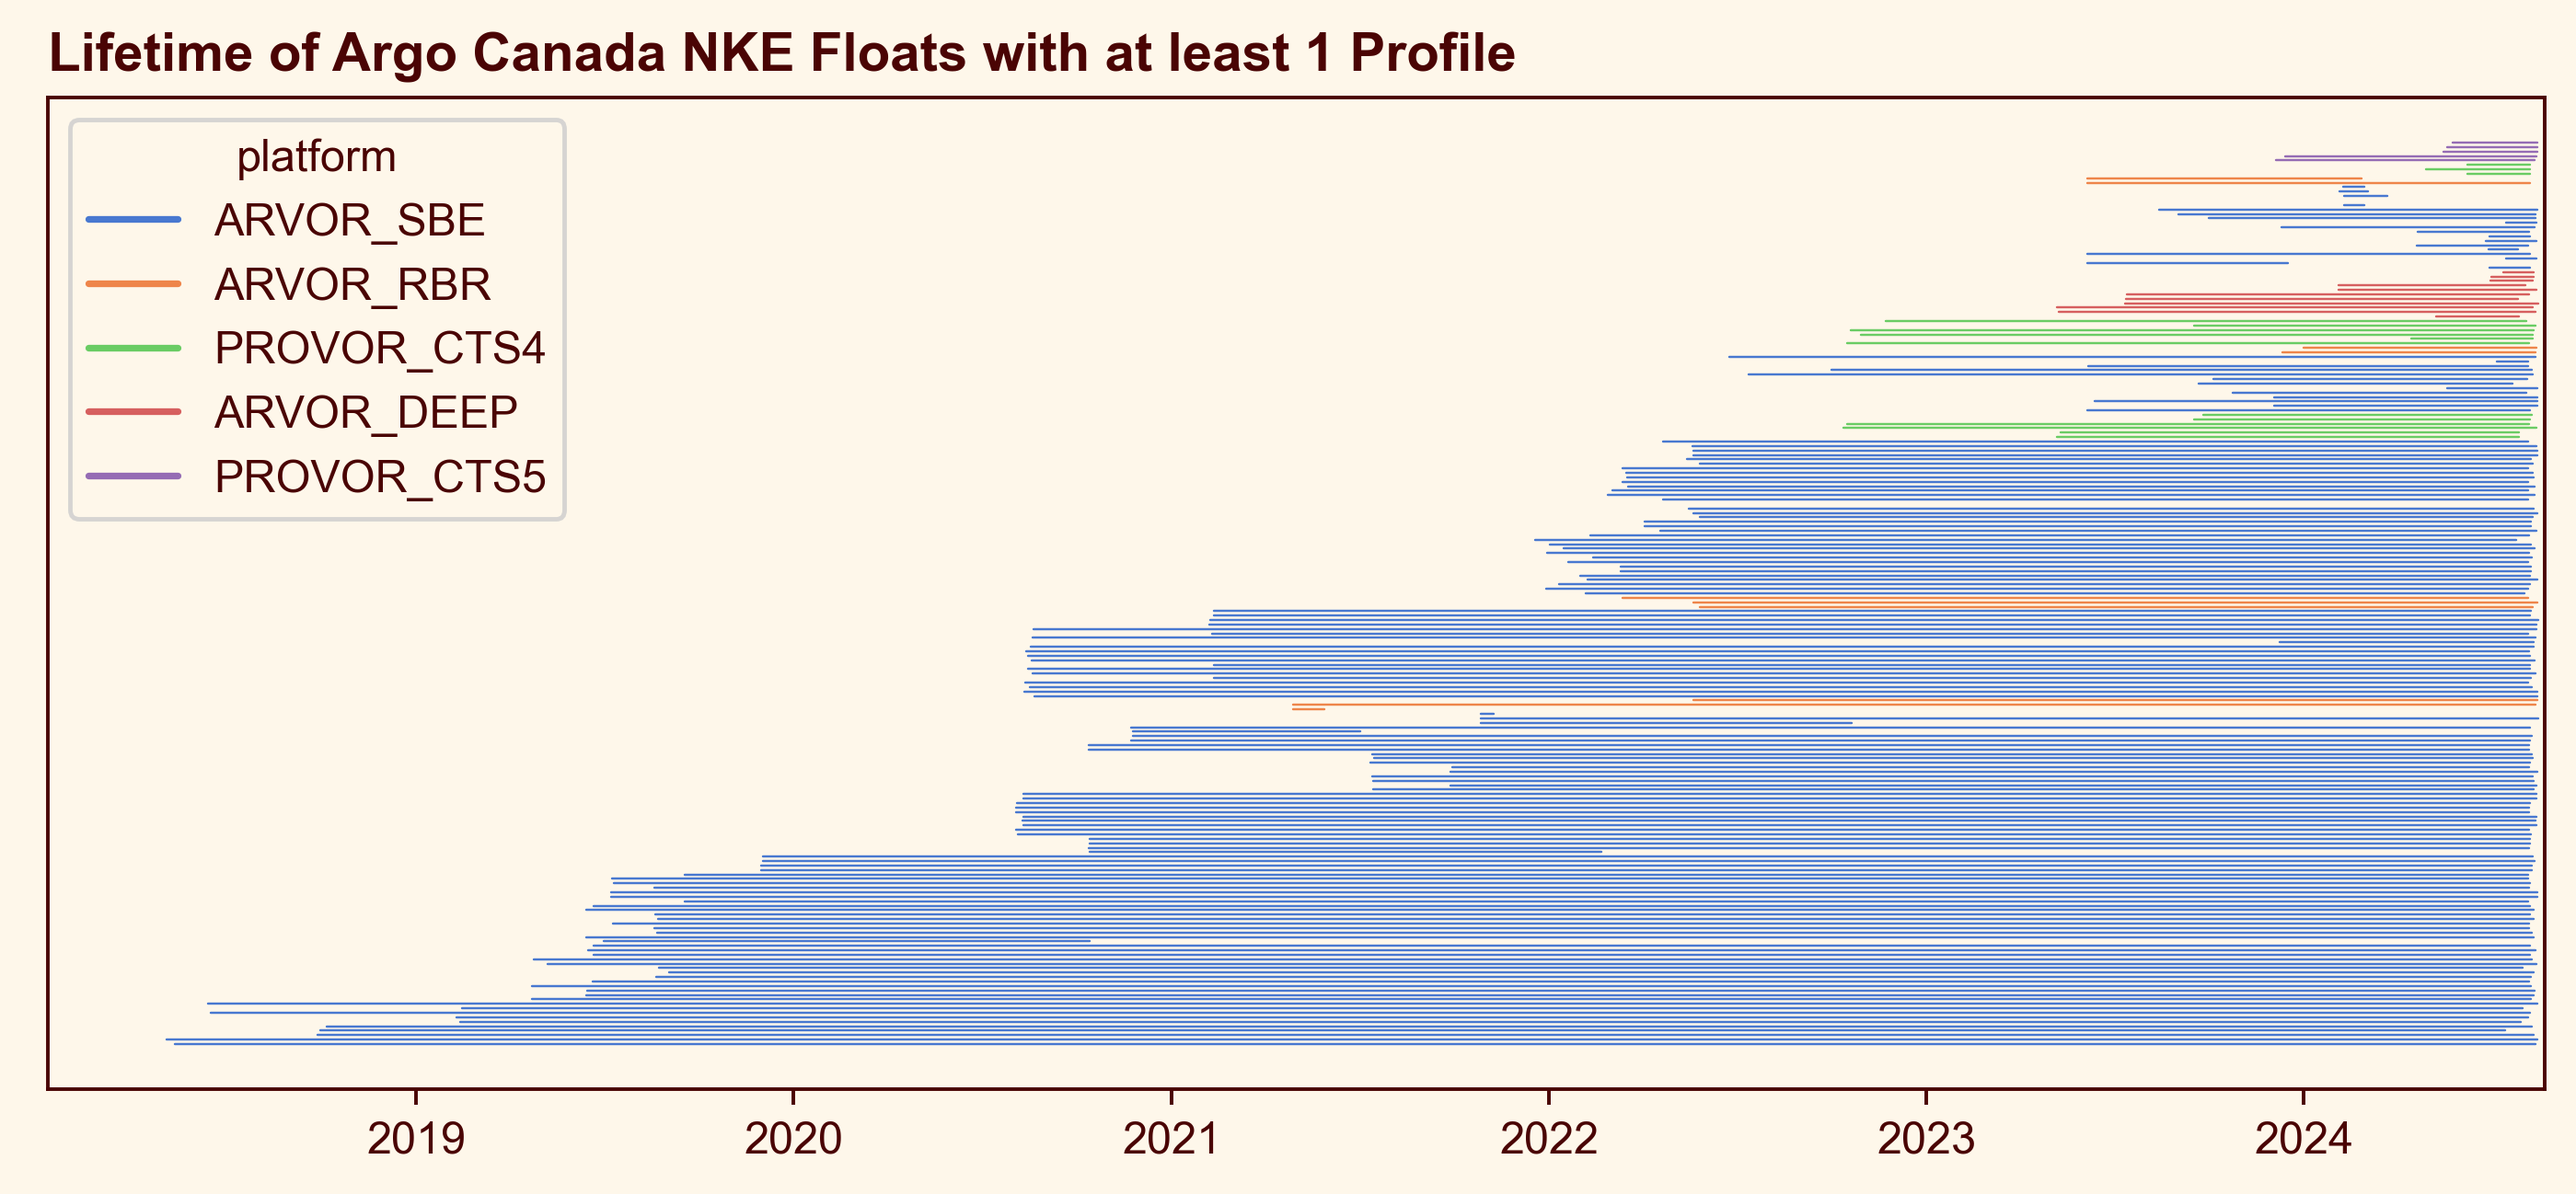
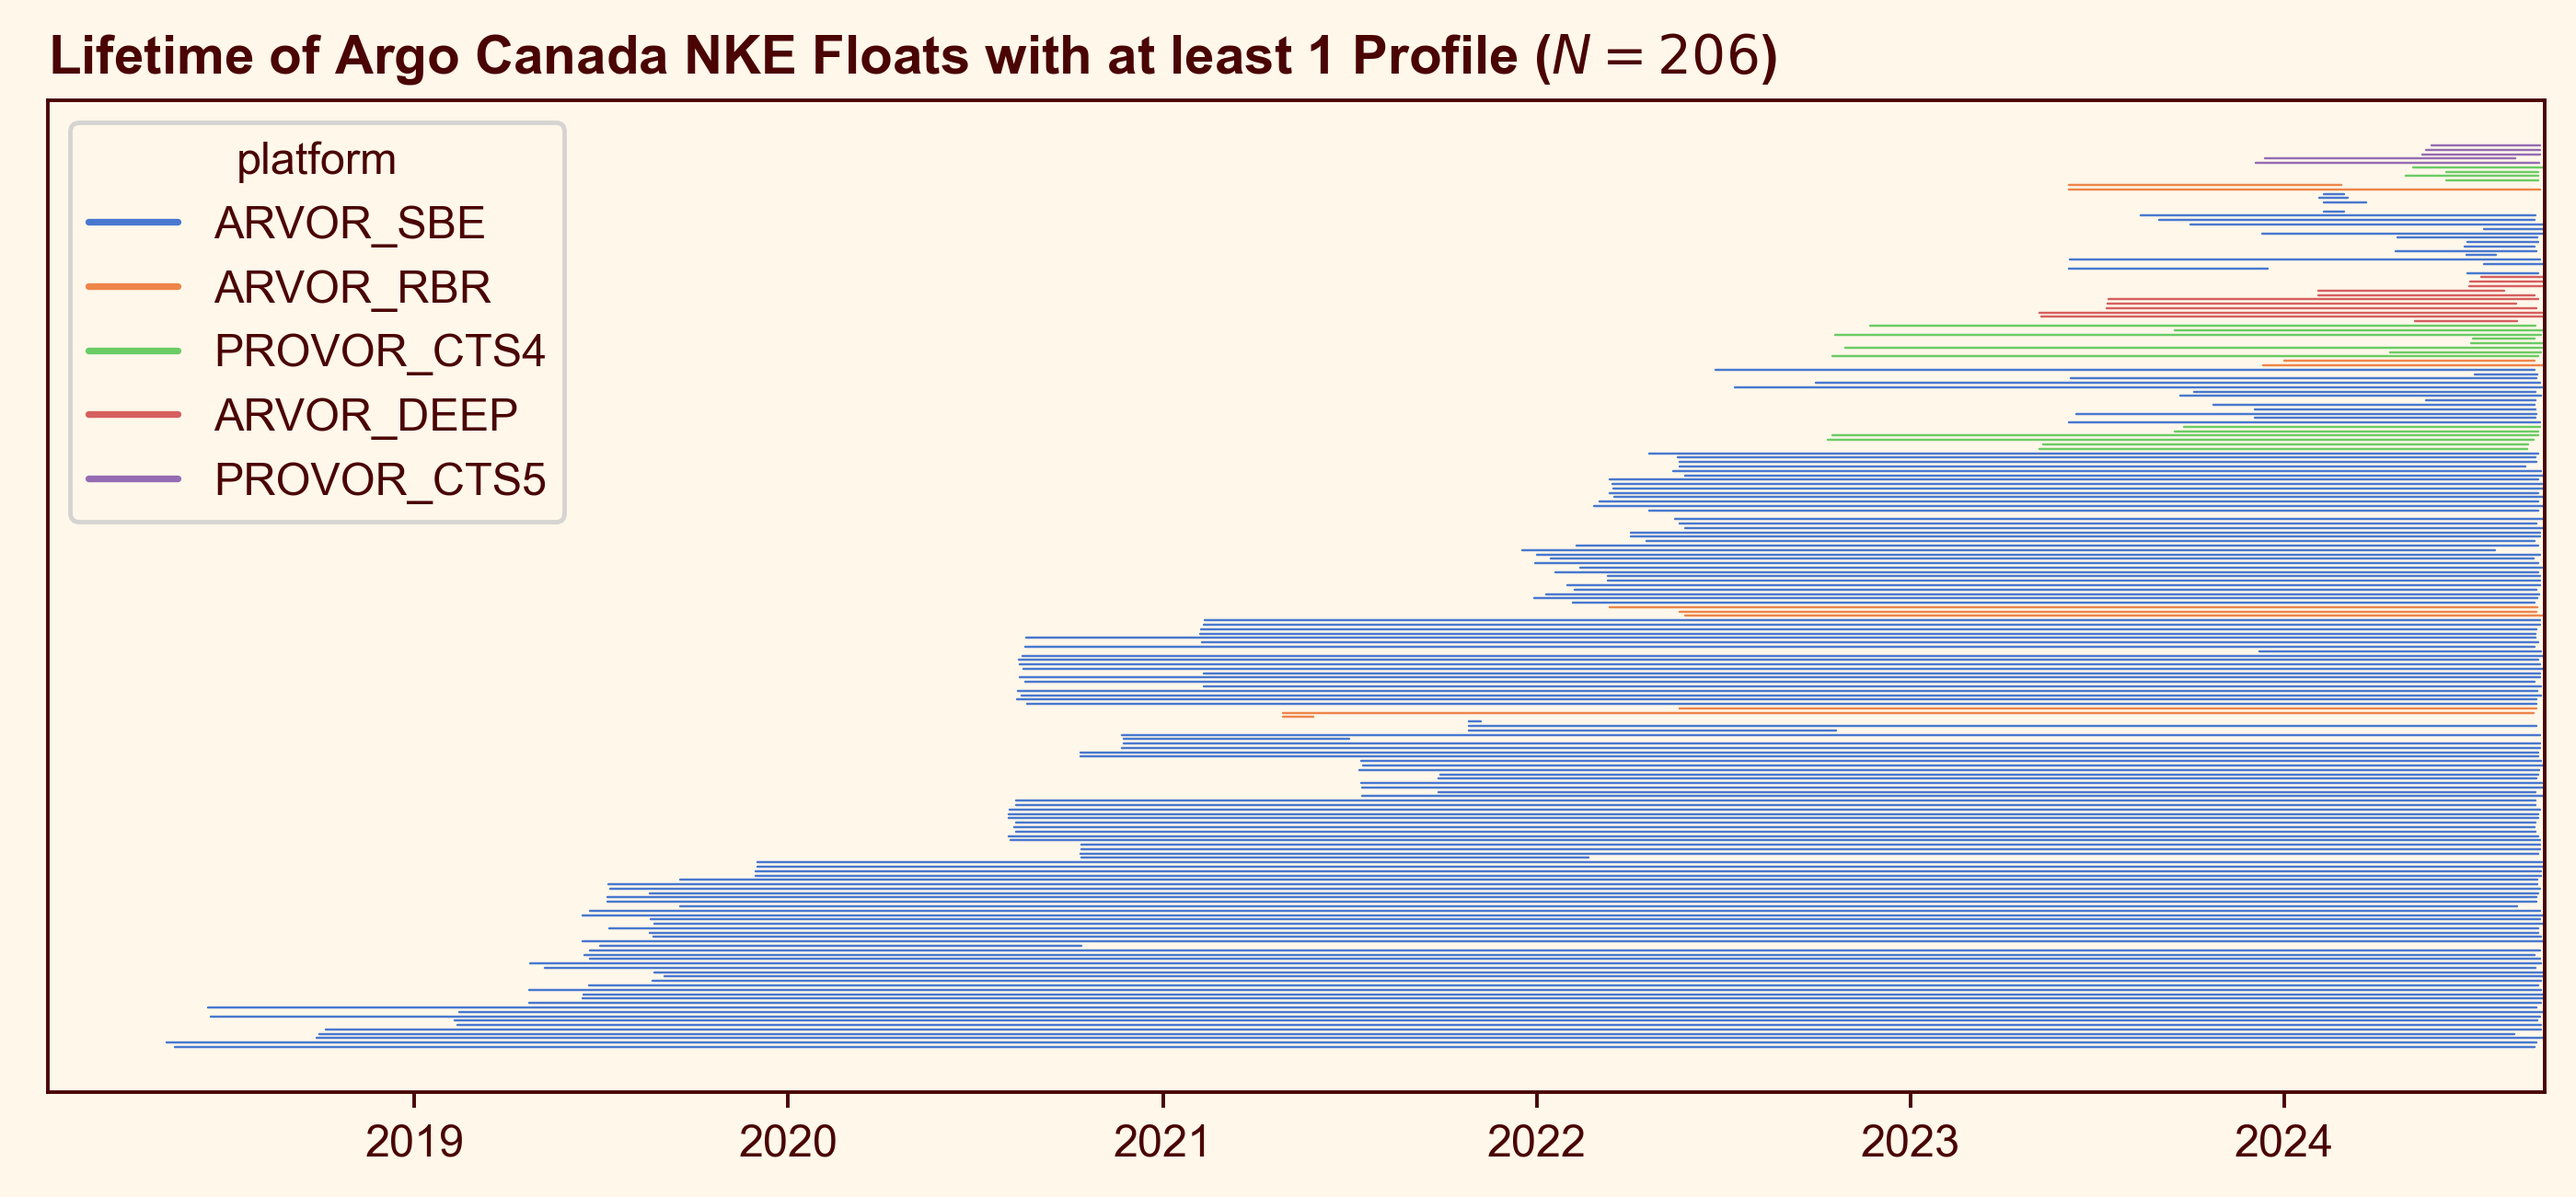
Argo tech workshop changes

diff --git a/src/argo_canada_nke_survival.py b/src/argo_canada_nke_survival.py
@@ -8,11 +8,11 @@ facecolor = '#fef7ea'
 textcolor = '#4a0404'
 
 custom_style = {
-    'axes.edgecolor': textcolor,
-    'axes.labelcolor': textcolor,
-    'axes.facecolor': facecolor,
-    'xtick.color': textcolor,
-    'ytick.color': textcolor
+    'axes.edgecolor'  : textcolor,
+    'axes.labelcolor' : textcolor,
+    'axes.facecolor'  : facecolor,
+    'xtick.color'     : textcolor,
+    'ytick.color'     : textcolor,
 }
 sns.set_style('ticks', rc=custom_style)
 
@@ -72,7 +72,7 @@ plt.setp(ax.get_legend().get_title(), color=textcolor)
 ax.set_yticks([])
 ax.set_ylabel('')
 ax.set_xlim(right=pd.Timestamp('now'))
-ax.set_title('Lifetime of Argo Canada NKE Floats with at least 1 Profile', loc='left', color=textcolor, fontweight='bold')
+ax.set_title(f'Lifetime of Argo Canada NKE Floats with at least 1 Profile ($N = {ix.wmo.unique().shape[0]}$)', loc='left', color=textcolor, fontweight='bold')
 ax.set_xlabel('')
 fig.set_size_inches(10,4)
 fig.savefig(
@@ -84,6 +84,9 @@ plt.close(fig)
 # subset floats that have not reported recently
 delta = 30
 fail = ix.loc[ix.delta > pd.Timedelta(days=delta)]
+
+exceptions = [4902639]
+fail = fail.loc[~fail.wmo.isin(exceptions)]
 
 xlim = ax.get_xlim()
 ylim = ax.get_ylim()
@@ -99,13 +102,43 @@ plt.setp(ax.get_legend().get_title(), color=textcolor)
 ax.set_yticks([])
 ax.set_ylabel('')
 ax.set_xlim(right=pd.Timestamp('now'))
-ax.set_title(f'Lifetime of Argo Canada NKE Floats with at least 1 Profile, Unreported in last {delta} days', loc='left', color=textcolor, fontweight='bold')
+ax.set_title(f'Lifetime of Argo Canada NKE Floats with at least 1 Profile, Unreported in last {delta} days ($N = {fail.wmo.unique().shape[0]}$)', loc='left', color=textcolor, fontweight='bold')
 ax.set_xlabel('')
 ax.set_xlim(xlim)
 ax.set_ylim(ylim)
 fig.set_size_inches(10,4)
 fig.savefig(
     '../figures/argo-tech-workshop/argo_canada_nke_lifetimes_failed.png', 
+    dpi=350, bbox_inches='tight'
+)
+plt.close(fig)
+
+baffin_floats = [4902530, 4902532]
+ross_floats = [4902664, 4902667, 4902668, 4902669]
+
+fail = fail.loc[~fail.wmo.isin(baffin_floats + ross_floats)]
+
+xlim = ax.get_xlim()
+ylim = ax.get_ylim()
+fig, ax = plt.subplots(facecolor=facecolor)
+g = sns.lineplot(
+    data=fail, x='date', y='count', 
+    hue='platform', units='wmo',
+    palette='muted', linewidth=0.5,
+    sort=False, estimator=None, ax=ax
+)
+plt.setp(ax.get_legend().get_texts(), color=textcolor)
+plt.setp(ax.get_legend().get_title(), color=textcolor)
+ax.set_yticks([])
+ax.set_ylabel('')
+ax.set_xlim(right=pd.Timestamp('now'))
+ax.set_title(f'Lifetime of Argo Canada NKE Floats with at least 1 Profile, Unreported in last {delta} days ($N = {fail.wmo.unique().shape[0]+2}$)', loc='left', color=textcolor, fontweight='bold')
+ax.set_xlabel('')
+ax.set_xlim(xlim)
+ax.set_ylim(ylim)
+fig.set_size_inches(10,4)
+fig.savefig(
+    '../figures/argo-tech-workshop/argo_canada_nke_lifetimes_ice_excepted.png', 
     dpi=350, bbox_inches='tight'
 )
 plt.close(fig)

diff --git a/src/plot_cleaned_provor_data.py b/src/plot_cleaned_provor_data.py
@@ -4,7 +4,18 @@ import pandas as pd
 
 import matplotlib.pyplot as plt
 import seaborn as sns
-sns.set(style='ticks', palette='colorblind')
+
+facecolor = '#fef7ea'
+textcolor = '#4a0404'
+
+custom_style = {
+    'axes.edgecolor'  : textcolor,
+    'axes.labelcolor' : textcolor,
+    'axes.facecolor'  : facecolor,
+    'xtick.color'     : textcolor,
+    'ytick.color'     : textcolor,
+}
+sns.set_style('ticks', rc=custom_style)
 
 imei_numbers = [
     '300125061656740',
@@ -22,7 +33,7 @@ for imei, wmo in zip(imei_numbers, wmo_numbers):
     oxy = pd.read_hdf(Path(f'../data/provor/{imei}') / f'{wmo}_optode_test.h5')
     eco = pd.read_hdf(Path(f'../data/provor/{imei}') / f'{wmo}_ecopuck_test.h5')
 
-    fig, axes = plt.subplots(2, 2, sharey=True)
+    fig, axes = plt.subplots(2, 2, sharey=True, facecolor=facecolor)
     deg = chr(176)
     ctd = ctd.loc[ctd['Phase number'] != 5]
     oxy = oxy.loc[oxy['Phase number'] != 5]

diff --git a/src/canadian_floats_map.py b/src/canadian_floats_map.py
@@ -1,5 +1,18 @@
 import cartopy.crs as ccrs
 import seaborn as sns
+
+facecolor = '#fef7ea'
+textcolor = '#4a0404'
+
+custom_style = {
+    'axes.edgecolor'  : textcolor,
+    'axes.labelcolor' : textcolor,
+    'axes.facecolor'  : facecolor,
+    'xtick.color'     : textcolor,
+    'ytick.color'     : textcolor,
+}
+sns.set_style('ticks', rc=custom_style)
+
 import argopy
 
 ix = argopy.ArgoIndex().load().to_dataframe()
@@ -12,6 +25,7 @@ ix = ix.loc[last_prof]
 ix['Active Floats'] = ['Canadian Floats' if inst == 'MEDS, Canada' else 'Global Array' for inst in ix.institution]
 
 fig, ax = argopy.plot.scatter_map(ix, hue='Active Floats', cmap='Spectral', set_global=True, markersize=10)
+fig.set_facecolor(facecolor)
 meds = ix.loc[ix.institution == 'MEDS, Canada']
 ax.scatter(meds.longitude, meds.latitude, color=sns.color_palette('Spectral', as_cmap=True)(0.1), transform=ccrs.PlateCarree(), edgecolor='k', zorder=10)
 
